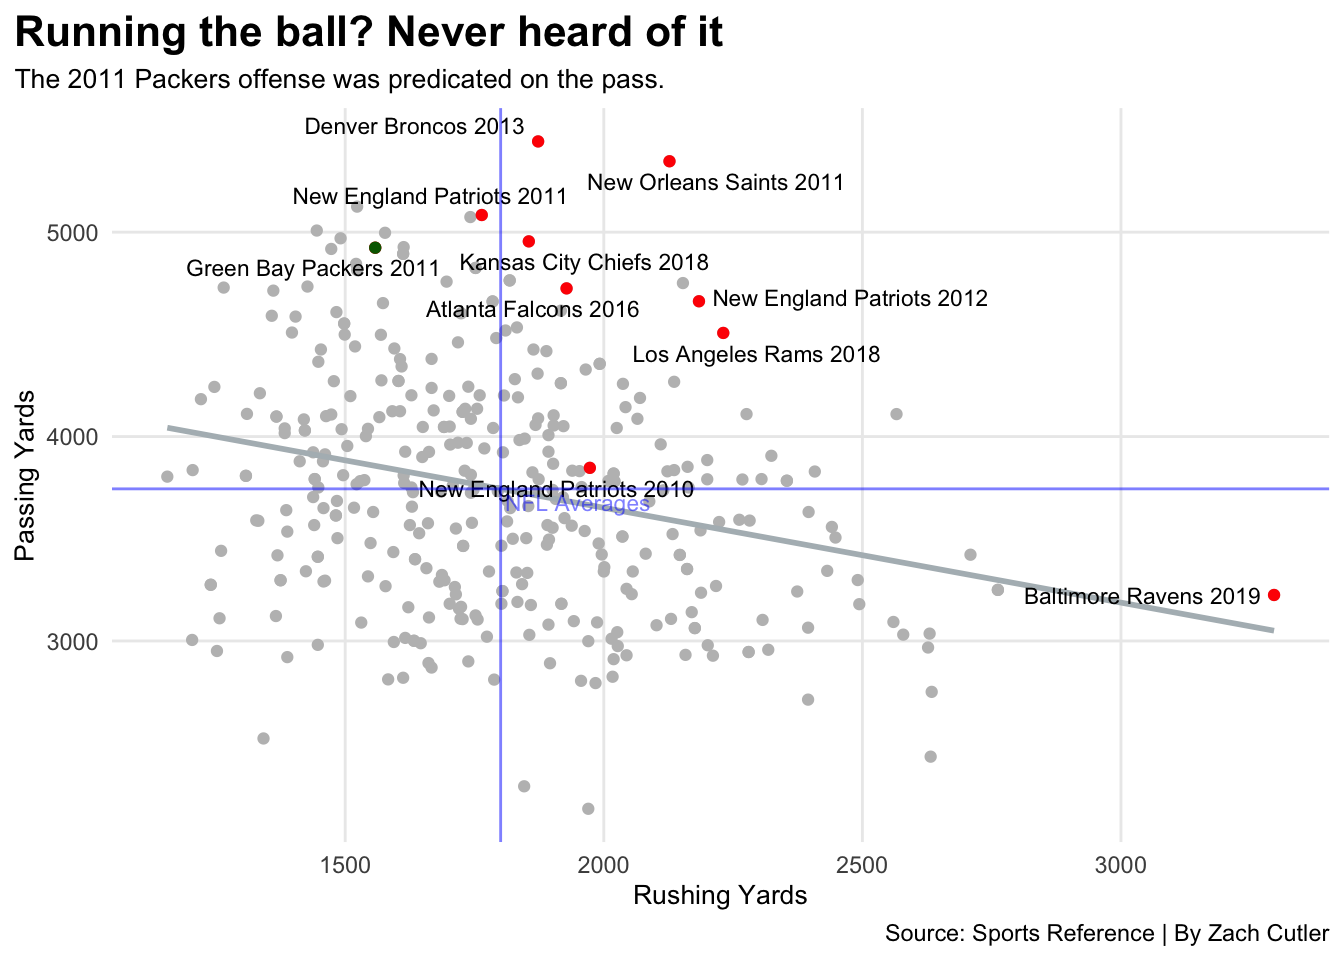
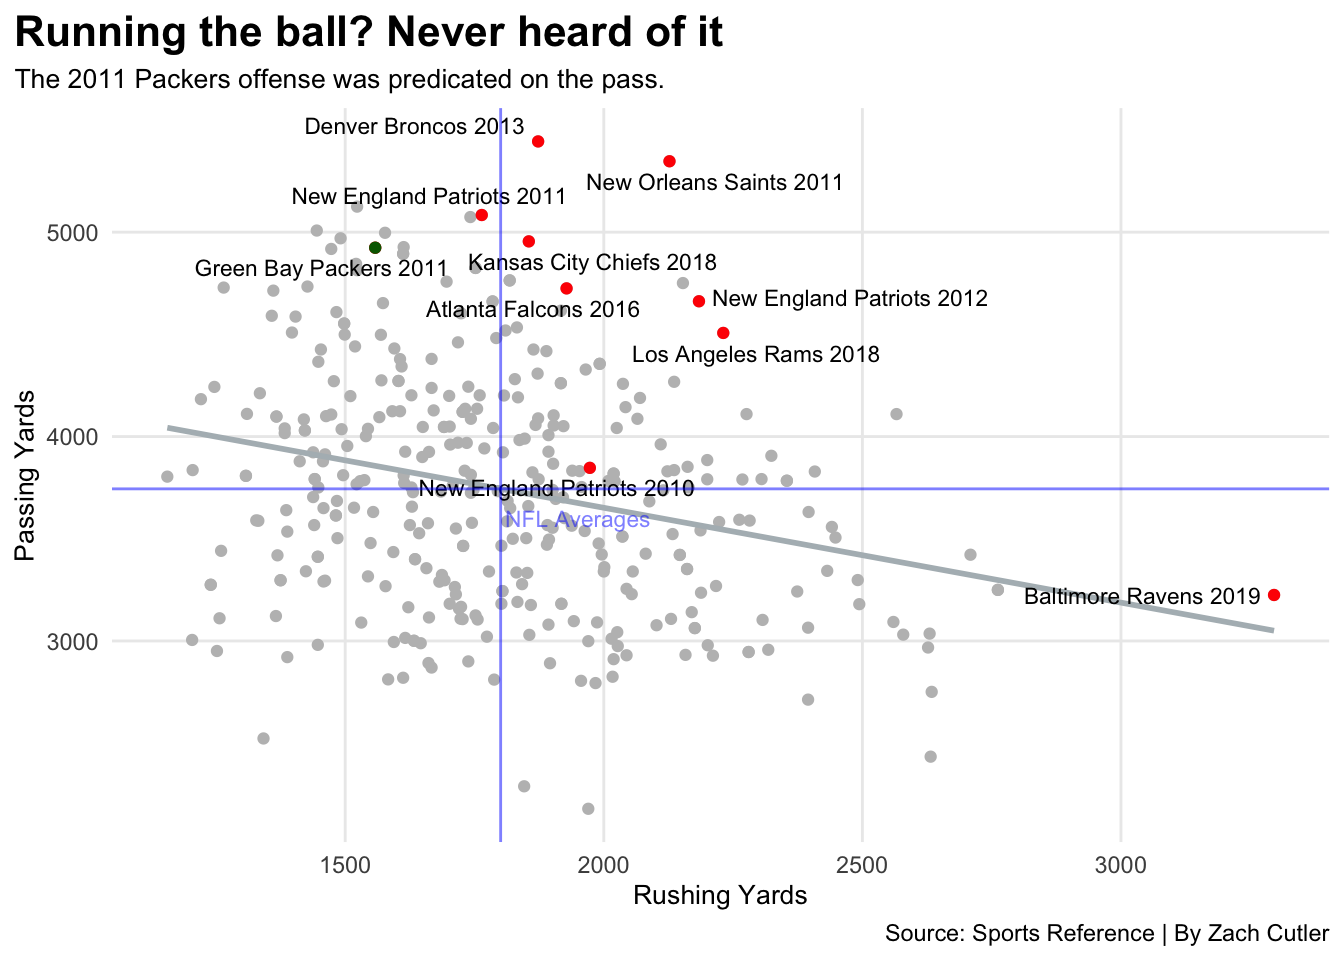
yep

diff --git a/posts/where-did-the-2011-packers-rank-among-the-best-offenses-of-the-2010s/index.html b/posts/where-did-the-2011-packers-rank-among-the-best-offenses-of-the-2010s/index.html
@@ -477,7 +477,7 @@ code span.wa { color: #60a0b0; font-weight: bold; font-style: italic; } /* Warni
 <span id="cb4-7"><a href="#cb4-7" aria-hidden="true" tabindex="-1"></a>  ) <span class="sc">+</span></span>
 <span id="cb4-8"><a href="#cb4-8" aria-hidden="true" tabindex="-1"></a>  <span class="fu">geom_vline</span>(<span class="at">xintercept =</span><span class="fl">1800.56</span>, <span class="at">color=</span><span class="st">"blue"</span>, <span class="at">alpha=</span>.<span class="dv">5</span>) <span class="sc">+</span></span>
 <span id="cb4-9"><a href="#cb4-9" aria-hidden="true" tabindex="-1"></a>  <span class="fu">geom_hline</span>(<span class="at">yintercept =</span> <span class="fl">3744.188</span>  , <span class="at">color=</span><span class="st">"blue"</span>,<span class="at">alpha=</span>.<span class="dv">5</span>) <span class="sc">+</span></span>
-<span id="cb4-10"><a href="#cb4-10" aria-hidden="true" tabindex="-1"></a>  <span class="fu">geom_text</span>(<span class="fu">aes</span>(<span class="at">x=</span><span class="dv">1950</span>, <span class="at">y=</span><span class="dv">3680</span>), <span class="at">label=</span><span class="st">"NFL Averages"</span>, <span class="at">color=</span><span class="st">"blue"</span>, <span class="at">alpha=</span>.<span class="dv">5</span>, <span class="at">size=</span><span class="dv">3</span>)<span class="sc">+</span></span>
+<span id="cb4-10"><a href="#cb4-10" aria-hidden="true" tabindex="-1"></a>  <span class="fu">geom_text</span>(<span class="fu">aes</span>(<span class="at">x=</span><span class="dv">1950</span>, <span class="at">y=</span><span class="dv">3600</span>), <span class="at">label=</span><span class="st">"NFL Averages"</span>, <span class="at">color=</span><span class="st">"blue"</span>, <span class="at">alpha=</span>.<span class="dv">5</span>, <span class="at">size=</span><span class="dv">3</span>)<span class="sc">+</span></span>
 <span id="cb4-11"><a href="#cb4-11" aria-hidden="true" tabindex="-1"></a><span class="fu">theme_minimal</span>() <span class="sc">+</span></span>
 <span id="cb4-12"><a href="#cb4-12" aria-hidden="true" tabindex="-1"></a>   <span class="fu">theme</span>(</span>
 <span id="cb4-13"><a href="#cb4-13" aria-hidden="true" tabindex="-1"></a>    <span class="at">plot.title =</span> <span class="fu">element_text</span>(<span class="at">size =</span> <span class="dv">16</span>, <span class="at">face =</span> <span class="st">"bold"</span>),</span>

diff --git a/index.html b/index.html
@@ -164,7 +164,7 @@ ul.task-list li input[type="checkbox"] {
 
 <div class="quarto-listing quarto-listing-container-default" id="listing-listing">
 <div class="list quarto-listing-default">
-<div class="quarto-post image-right" data-index="0" data-categories="football,nfl,analysis" data-listing-date-sort="1669788000000" data-listing-file-modified-sort="1670020186011" data-listing-reading-time-sort="11.37">
+<div class="quarto-post image-right" data-index="0" data-categories="football,nfl,analysis" data-listing-date-sort="1669788000000" data-listing-file-modified-sort="1670254358835" data-listing-reading-time-sort="11.37">
 <div class="thumbnail">
 <p><a href="./posts/where-did-the-2011-packers-rank-among-the-best-offenses-of-the-2010s/index.html"> <img src="./posts/where-did-the-2011-packers-rank-among-the-best-offenses-of-the-2010s/image1.png" class="thumnail-image"> </a></p>
 </div>
